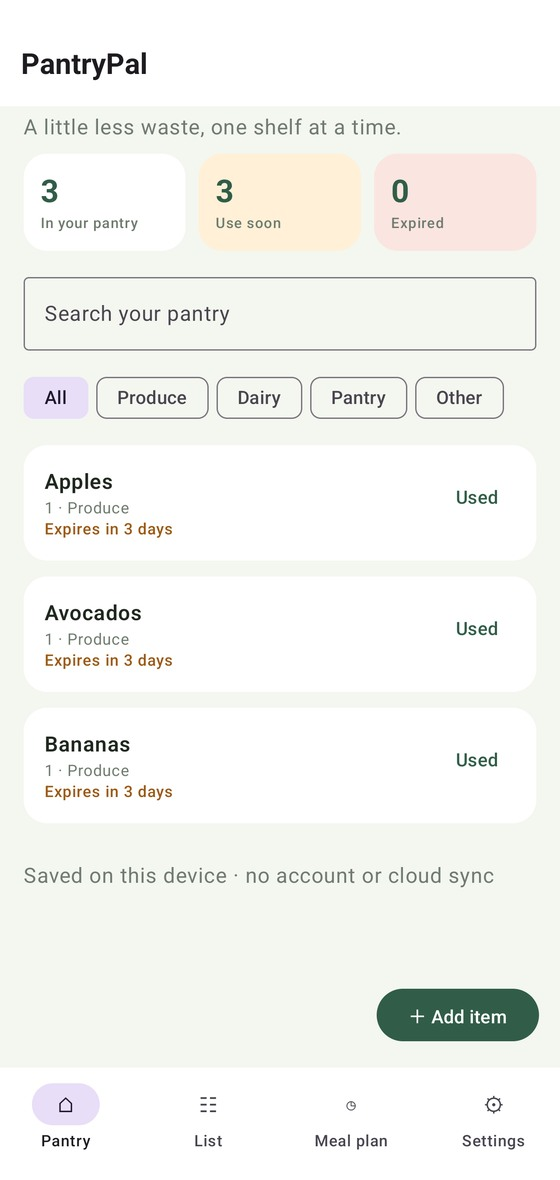
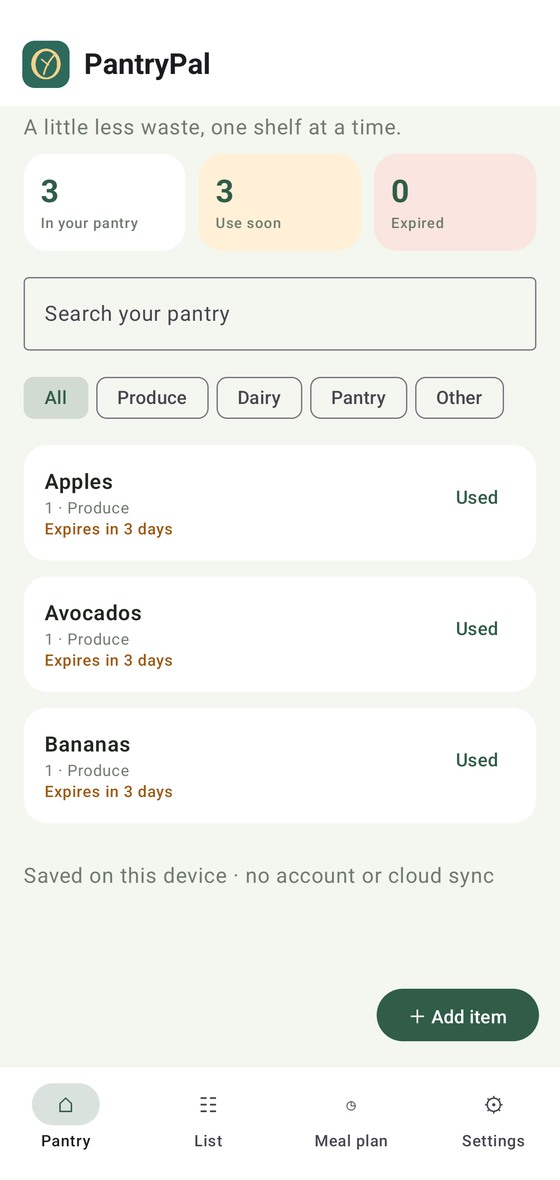
Add app branding and repair screenshot links

Changed region(s): [[0.0304, 0.0305, 0.3946, 0.0915], [0.0304, 0.3051, 0.1518, 0.3661], [0.0607, 0.9153, 0.1821, 0.9763]]

diff --git a/app/src/main/kotlin/com/premsingh/pantrypal/MainActivity.kt b/app/src/main/kotlin/com/premsingh/pantrypal/MainActivity.kt
@@ -4,6 +4,7 @@ import android.app.Application
 import android.os.Bundle
 import androidx.activity.ComponentActivity
 import androidx.activity.compose.setContent
+import androidx.compose.foundation.Image
 import androidx.compose.foundation.layout.Arrangement
 import androidx.compose.foundation.layout.Column
 import androidx.compose.foundation.layout.Row
@@ -35,9 +36,12 @@ import androidx.compose.runtime.*
 import androidx.compose.runtime.saveable.rememberSaveable
 import androidx.compose.ui.Modifier
 import androidx.compose.ui.graphics.Color
+import androidx.compose.ui.res.painterResource
 import androidx.compose.ui.text.font.FontWeight
 import androidx.compose.ui.text.input.KeyboardType
 import androidx.compose.ui.unit.dp
+import androidx.compose.foundation.layout.size
+import androidx.compose.ui.Alignment
 import androidx.compose.foundation.text.KeyboardActions
 import androidx.compose.ui.text.input.ImeAction
 import androidx.lifecycle.viewmodel.compose.viewModel
@@ -82,8 +86,11 @@ private fun PantryPalApp(vm: PantryViewModel = viewModel()) {
     val visible = entries.filter { it.name.contains(search, ignoreCase = true) }
         .filter { selectedCategory == "All" || it.category == selectedCategory }
 
-    MaterialTheme(colorScheme = MaterialTheme.colorScheme.copy(primary = palette.accent, background = palette.canvas, surface = Color.White, onBackground = Ink)) {
-        Scaffold(containerColor = palette.canvas, topBar = { TopAppBar(title = { Text("PantryPal", fontWeight = FontWeight.Bold) }) },
+    MaterialTheme(colorScheme = MaterialTheme.colorScheme.copy(primary = palette.accent, secondary = palette.accent, primaryContainer = palette.accent.copy(alpha = .18f), onPrimaryContainer = palette.accent, secondaryContainer = palette.accent.copy(alpha = .18f), onSecondaryContainer = palette.accent, background = palette.canvas, surface = Color.White, onBackground = Ink)) {
+        Scaffold(containerColor = palette.canvas, topBar = { TopAppBar(title = { Row(verticalAlignment = Alignment.CenterVertically, horizontalArrangement = Arrangement.spacedBy(10.dp)) {
+                Image(painterResource(com.premsingh.pantrypal.R.drawable.brand_logo), contentDescription = "PantryPal logo", modifier = Modifier.size(38.dp))
+                Text("PantryPal", fontWeight = FontWeight.Bold)
+            } }) },
             bottomBar = {
                 NavigationBar(containerColor = Color.White) {
                     PantryTab.entries.forEach { destination ->
@@ -150,7 +157,7 @@ private fun PantryPalApp(vm: PantryViewModel = viewModel()) {
 @Composable
 private fun SummaryCard(title: String, value: String, modifier: Modifier = Modifier, color: Color = Color.White) {
     Card(modifier, shape = RoundedCornerShape(18.dp), colors = CardDefaults.cardColors(containerColor = color)) {
-        Column(Modifier.padding(13.dp)) { Text(value, style = MaterialTheme.typography.headlineSmall, fontWeight = FontWeight.Bold, color = Leaf); Text(title, style = MaterialTheme.typography.labelSmall, color = Muted) }
+        Column(Modifier.padding(13.dp)) { Text(value, style = MaterialTheme.typography.headlineSmall, fontWeight = FontWeight.Bold, color = MaterialTheme.colorScheme.primary); Text(title, style = MaterialTheme.typography.labelSmall, color = Muted) }
     }
 }
 
@@ -161,7 +168,7 @@ private fun PantryRow(entry: PantryEntry, today: Long, onUsed: () -> Unit) {
             Column(Modifier.weight(1f)) {
                 Text(entry.name, fontWeight = FontWeight.SemiBold, color = Ink)
                 Text("${entry.quantity} · ${entry.category}", color = Muted, style = MaterialTheme.typography.bodySmall)
-                Text(daysLabel(entry.expiryEpochDay, today), color = if (entry.expiryEpochDay - today <= 3) Color(0xFF9B5A17) else Leaf, style = MaterialTheme.typography.labelMedium)
+                Text(daysLabel(entry.expiryEpochDay, today), color = if (entry.expiryEpochDay - today <= 3) Color(0xFF9B5A17) else MaterialTheme.colorScheme.primary, style = MaterialTheme.typography.labelMedium)
             }
             TextButton(onClick = onUsed) { Text("Used") }
         }

diff --git a/README.md b/README.md
@@ -1,5 +1,7 @@
 # PantryPal
 
+<p align="center"><img src="https://raw.githubusercontent.com/premsinghsodha7/PantryPal/main/brand-logo.png" alt="PantryPal logo" width="150"></p>
+
 > An offline-first pantry companion built with Kotlin and Jetpack Compose.
 
 Keep track of what's on the shelf, spot food that's best used soon, and remove items as you cook. Pantry entries are stored locally in a Room database; there is no account or cloud service.
